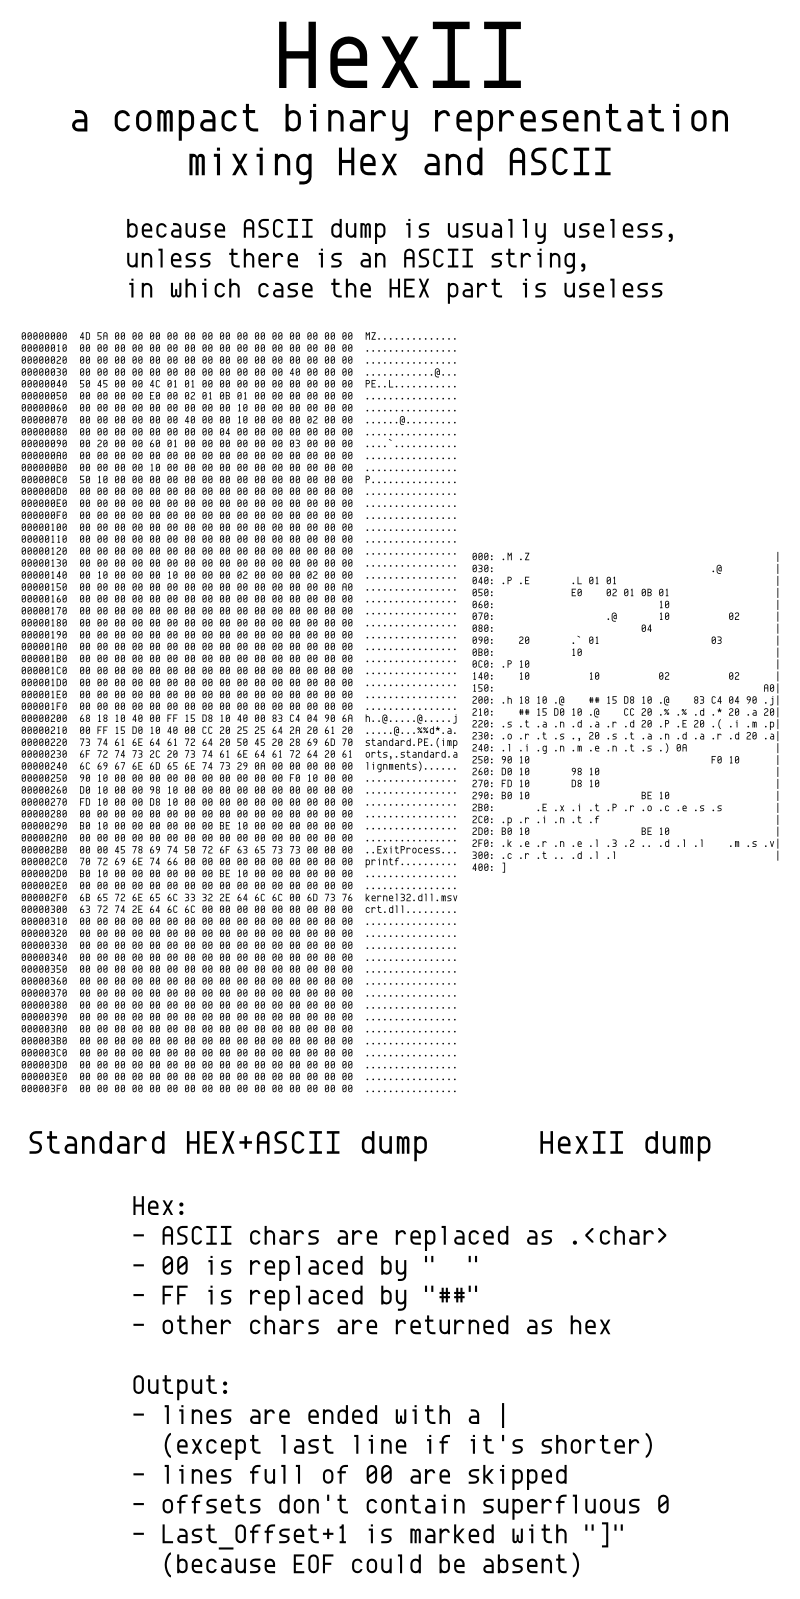
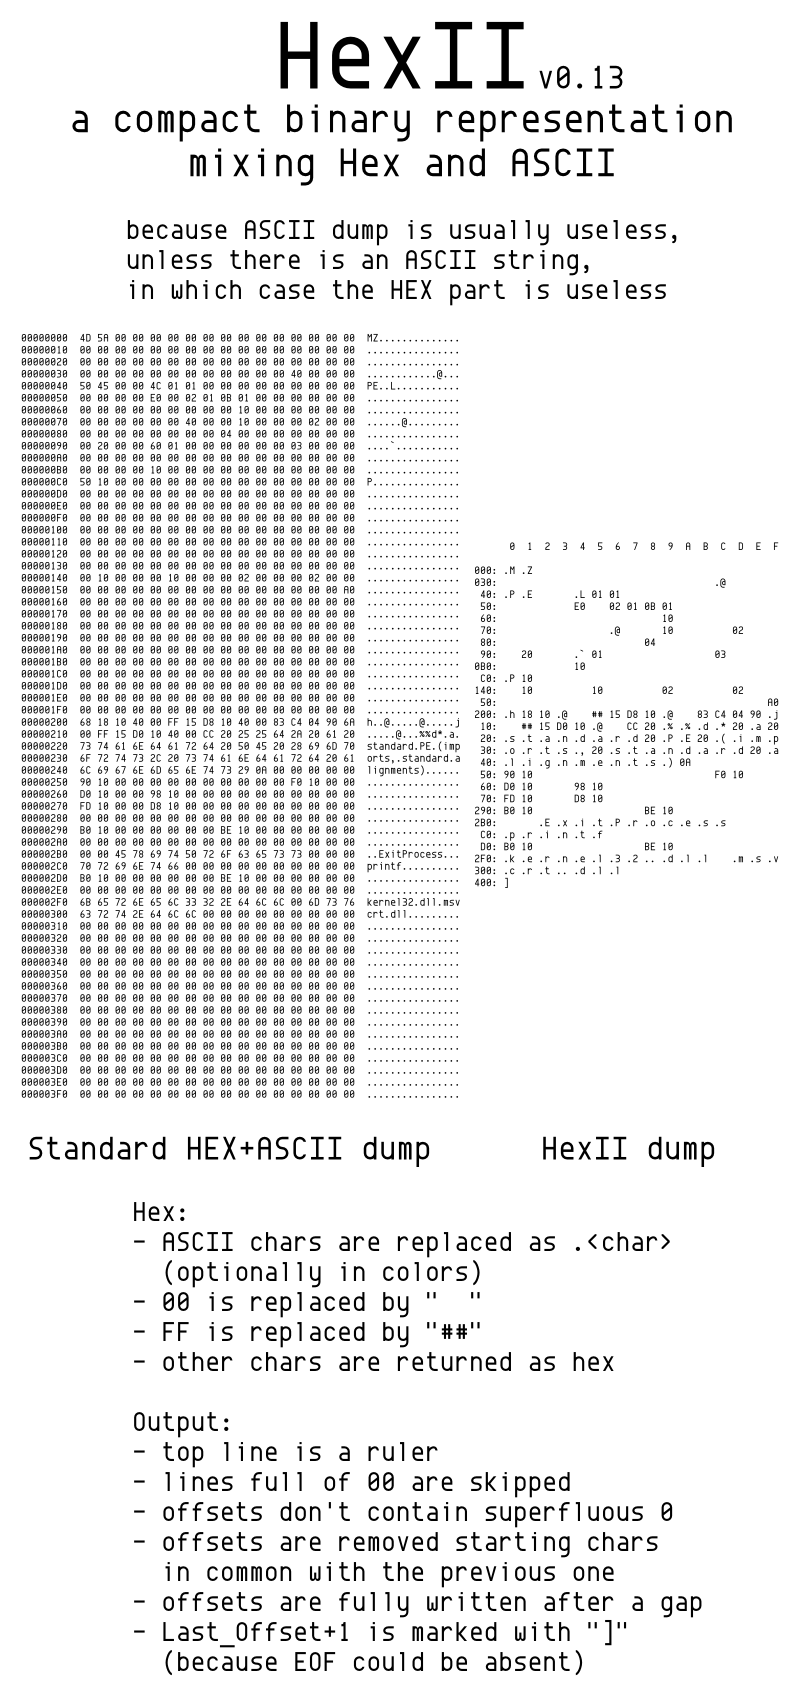
v0.13, with partial offsets

Changed region(s): [[0.0, 0.0, 1.0, 1.0], [0.6562, 0.6742, 0.9062, 0.7355], [0.75, 0.7661, 0.8125, 0.7967]]

diff --git a/src/HexII/hexii.py b/src/HexII/hexii.py
@@ -6,23 +6,25 @@
 
 # Ange Albertini, BSD Licence 2014
 
-# v0.11:
+# v0.13:
 # Hex:
 # - ASCII chars are replaced as .<char>
+#   (optionally in colors)
 # - 00 is replaced by "  "
 # - FF is replaced by "##"
 # - other chars are returned as hex
 #
 # Output:
-# - lines are ended with a |
-#   (except last line if it's shorter)
-# - lines full of 00 are skipped
+# - a hex ruler is shown at the top of the 'display'
 # - offsets don't contain superfluous 0
+# - offsets are removed identical starting characters if following the previous
+# - lines full of 00 are skipped
+# - offsets after a skip are fully written
 # - Last_Offset+1 is marked with "]"
 #   (because EOF could be absent)
 
 #todo:
-# - less brutal empty line skipping ?
+# - update hexii2bin (since v0.12)
 # - something about unicode ?
 
 
@@ -40,7 +42,17 @@ except:
 
 ASCII = punctuation + digits + letters
 
-PREFIX = "%%0%iX: " % (math.log(len(r), 16) + 1)
+BLUE = '\033[94m'
+ENDC = '\033[0m'
+CHARS_NEEDED = int(math.log(len(r), 16) + 1)
+
+PREFIX = "%%0%iX: " % CHARS_NEEDED
+
+#this should always be displayed on the top of the screen no matter the scrolling
+print " " * CHARS_NEEDED + "  " + " ".join("% 2X" % i for i in range(LINELEN))
+
+#the first offset on top of a window should be completely displayed
+last_off = None
 
 def subst(c):
     #replace 00 by empty char
@@ -54,6 +66,7 @@ def subst(c):
     #replace printable char by .<char>
     if c in ASCII:
         return "." + c
+#        return BLUE + "." + c + ENDC
 
     #otherwise, return hex
     return "%02X" % ord(c)
@@ -68,10 +81,32 @@ for c in r:
     l += [subst(c)]
 
 l += ["]"]
+skipping = False
+
+print
 
 for i, seq in enumerate(csplit(l, LINELEN)):
     l = " ".join(seq)
     if l.strip() != "":
-        if (len(seq) == LINELEN):
-            l += "|"
-        print (PREFIX + "%s") % (i * LINELEN, l)
+        skipping = False
+
+        prefix = list(PREFIX % (i * LINELEN))
+
+        #we'll skip starting chars if they are redundant
+        if last_off is not None:
+            save = last_off
+            last_off = "".join(prefix)
+            for i, j in enumerate(save):
+                if prefix[i] == j:
+                    prefix[i] = " "
+                else:
+                    break
+        else:
+            last_off = "".join(prefix)
+
+        prefix = "".join(prefix)
+        print "%s%s" % (prefix, l)
+    else:
+        if skipping == False:
+            skipping = True
+            last_off = None

diff --git a/src/HexII/hexII2bin.py b/src/HexII/hexII2bin.py
@@ -29,6 +29,8 @@ with open(hexii, "rb") as f:
 cur_off = 0
 d = []
 for l in r:
+    if l.strip() == "":
+        continue
     offset, _, content = l.strip().partition(":")
     offset = int(offset, 16)
 
